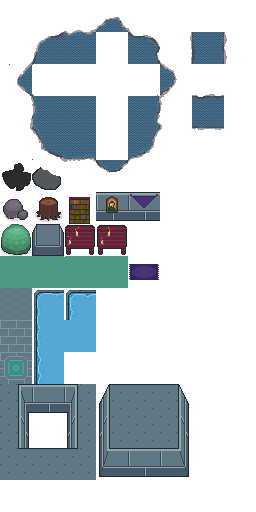
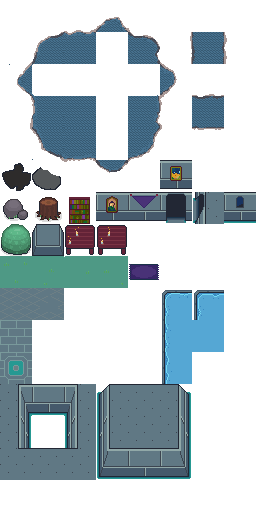
wip

diff --git a/src/textures.rs b/src/textures.rs
@@ -361,6 +361,7 @@ pub enum TerrainId {
     Floor,
     Floor2,
     Floor3,
+    Floor4,
 
     StoneWall,
     StoneWallConcaveNorthWest,
@@ -383,8 +384,12 @@ pub enum TerrainId {
 
     BookShelf,
     WallPainting,
+    WallPainting2,
     WallFlag,
     Mat,
+    WallOpeningNorth,
+    WallOpeningEast,
+    WallWindow,
 
     NewWaterNorthWest,
     NewWaterNorth,
@@ -494,32 +499,33 @@ pub fn terrain_atlas_area(terrain_id: TerrainId) -> (f32, Rect) {
         TerrainId::Floor => (0, 9),
         TerrainId::Floor2 => (0, 10),
         TerrainId::Floor3 => (0, 11),
-        TerrainId::NewWaterNorthWest => (1, 9),
+        TerrainId::Floor4 => (1, 9),
+        TerrainId::NewWaterNorthWest => (5, 9),
         TerrainId::NewWaterNorth => {
             rotation = 0.5 * PI;
-            (1, 10)
+            (5, 10)
         }
         TerrainId::NewWaterNorthEast => {
             rotation = 0.5 * PI;
-            (1, 9)
+            (5, 9)
         }
-        TerrainId::NewWaterWest => (1, 10),
-        TerrainId::NewWater => (2, 10),
+        TerrainId::NewWaterWest => (5, 10),
+        TerrainId::NewWater => (6, 10),
         TerrainId::NewWaterEast => {
             rotation = PI;
-            (1, 10)
+            (5, 10)
         }
         TerrainId::NewWaterSouthWest => {
             rotation = 1.5 * PI;
-            (1, 9)
+            (5, 9)
         }
         TerrainId::NewWaterSouth => {
             rotation = 1.5 * PI;
-            (1, 10)
+            (5, 10)
         }
         TerrainId::NewWaterSouthEast => {
             rotation = PI;
-            (1, 9)
+            (5, 9)
         }
 
         TerrainId::StoneWall => (1, 7),
@@ -544,8 +550,12 @@ pub fn terrain_atlas_area(terrain_id: TerrainId) -> (f32, Rect) {
 
         TerrainId::BookShelf => (2, 6),
         TerrainId::WallPainting => (3, 6),
+        TerrainId::WallPainting2 => (5, 5),
         TerrainId::WallFlag => (4, 6),
+        TerrainId::WallWindow => (7, 6),
         TerrainId::Mat => (4, 8),
+        TerrainId::WallOpeningNorth => (5, 6),
+        TerrainId::WallOpeningEast => (6, 6),
 
         TerrainId::Water => (2, 3),
         TerrainId::WaterBeachNorth => {
@@ -590,10 +600,10 @@ pub fn terrain_atlas_area(terrain_id: TerrainId) -> (f32, Rect) {
     let t = get_time();
     // animate water
     if ((t * 0.5) % (t * 0.5).floor()) < 0.5 {
-        if (col, row) == (1, 10) {
-            (col, row) = (1, 11);
-        } else if (col, row) == (1, 9) {
-            (col, row) = (2, 9);
+        if (col, row) == (5, 10) {
+            (col, row) = (5, 11);
+        } else if (col, row) == (5, 9) {
+            (col, row) = (6, 9);
         }
     }
 

diff --git a/src/action_button.rs b/src/action_button.rs
@@ -1120,6 +1120,12 @@ impl Drawable for ActionButton {
         match self.selected.get() {
             ButtonSelected::Yes => {
                 let margin = 1.0;
+                let mut outer = None;
+                if !matches!(self.action, ButtonAction::Action(..)) {
+                    if let Some(color) = self.parent_bg_color {
+                        outer = Some((color, 5.0));
+                    }
+                }
                 draw_rounded_rectangle_lines(
                     x - margin,
                     y - margin,
@@ -1128,7 +1134,7 @@ impl Drawable for ActionButton {
                     4.0,
                     GREEN,
                     7.0,
-                    self.parent_bg_color.map(|color| (color, 5.0)),
+                    outer,
                 );
             }
             ButtonSelected::Partially => {
@@ -1164,7 +1170,12 @@ impl Drawable for ActionButton {
             }
             if self.enabled.get() {
                 let margin = -1.0;
-
+                let mut outer = None;
+                if !matches!(self.action, ButtonAction::Action(..)) {
+                    if let Some(color) = self.parent_bg_color {
+                        outer = Some((color, 3.0));
+                    }
+                }
                 draw_rounded_rectangle_lines(
                     x - margin,
                     y - margin,
@@ -1173,7 +1184,7 @@ impl Drawable for ActionButton {
                     2.0,
                     self.hover_border_color,
                     5.0,
-                    self.parent_bg_color.map(|color| (color, 3.0)),
+                    outer,
                 );
             }
         }

diff --git a/src/target_ui.rs b/src/target_ui.rs
@@ -29,6 +29,8 @@ use crate::{
     util::COL_RED,
 };
 
+const BG_COLOR: Color = Color::new(0.4, 0.3, 0.2, 1.0);
+
 pub struct TargetUi {
     target: Option<Rc<Character>>,
     big_font: Font,
@@ -195,7 +197,7 @@ impl TargetUi {
             if !char.player_controlled() {
                 let mut next_btn_id = 0;
                 let mut new_btn = |action| {
-                    let btn = ActionButton::new(
+                    let mut btn = ActionButton::new(
                         action,
                         Some(Rc::clone(&self.button_events)),
                         next_btn_id,
@@ -204,6 +206,8 @@ impl TargetUi {
                         &self.simple_font,
                     );
                     next_btn_id += 1;
+
+                    btn.set_parent_bg_color(BG_COLOR);
                     btn
                 };
 
@@ -333,7 +337,7 @@ impl TargetUi {
                 children: rows,
                 margin: 15.0,
                 style: Style {
-                    background_color: Some(Color::new(0.4, 0.3, 0.2, 1.0)),
+                    background_color: Some(BG_COLOR),
                     border_color: Some(LIGHTGRAY),
                     border_inner_rounding: Some(6.0),
                     padding: 10.0,

diff --git a/src/bin/editor.rs b/src/bin/editor.rs
@@ -733,7 +733,12 @@ enum EditorAction {
 
 impl Sidebar {
     fn new(terrain_atlas: Texture2D, sprites: HashMap<SpriteId, Texture2D>) -> Self {
-        let backgrounds = vec![TerrainId::Floor, TerrainId::Floor2, TerrainId::Floor3];
+        let backgrounds = vec![
+            TerrainId::Floor,
+            TerrainId::Floor2,
+            TerrainId::Floor3,
+            TerrainId::Floor4,
+        ];
 
         let mut background_actions: Vec<EditorAction> = backgrounds
             .iter()
@@ -758,7 +763,11 @@ impl Sidebar {
         let decorations = vec![
             TerrainId::BookShelf,
             TerrainId::WallPainting,
+            TerrainId::WallPainting2,
             TerrainId::WallFlag,
+            TerrainId::WallWindow,
+            TerrainId::WallOpeningNorth,
+            TerrainId::WallOpeningEast,
             TerrainId::Mat,
         ];
         let mut decoration_actions: Vec<EditorAction> = decorations
